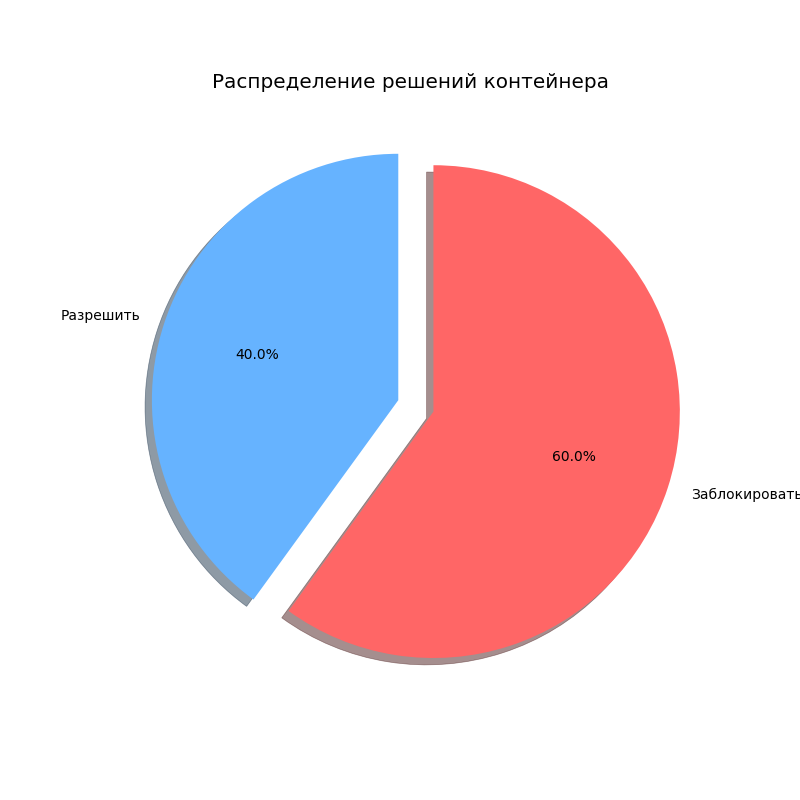
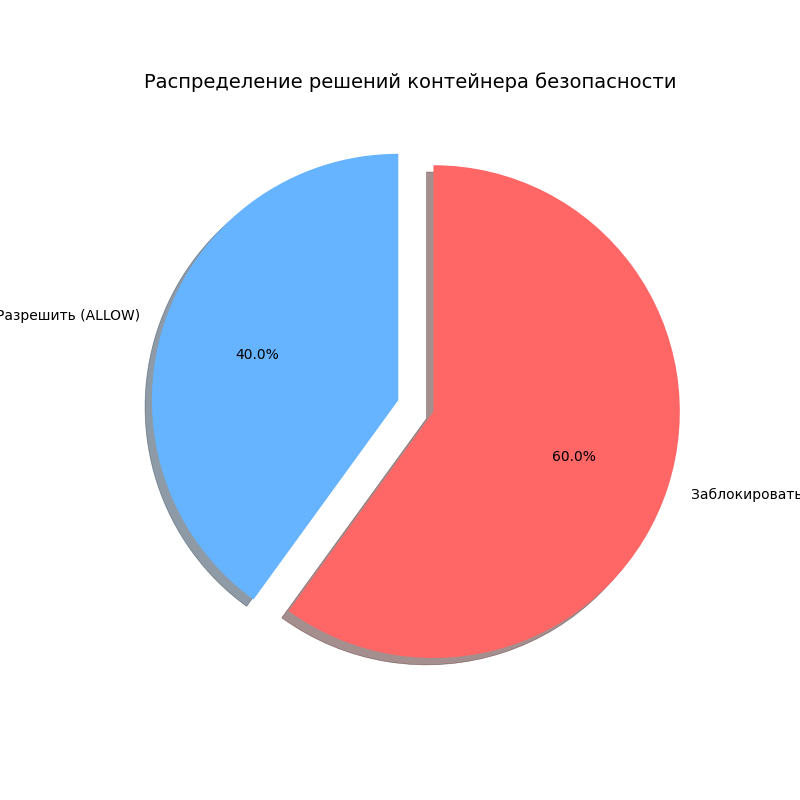
Изменение 4

Changed region(s): [[0.1875, 0.0938, 0.8438, 0.125], [0.0, 0.375, 0.1875, 0.4062]]

diff --git a/main.py b/main.py
@@ -192,67 +192,80 @@
 #Индивидуальное задание лр 3
 #1 Для определенных в ТЗ компонентов интеграции создать в реплике необходимое количество секретных ключей.
 # КОНТЕЙНЕР ЗАЩИТЫ ОТ СКРЫТНОГО ВКЛЮЧЕНИЯ В БОТ-СЕТЬ
-# Вариант 12 
+# Вариант 12
 
 import os
 import pandas as pd
 import matplotlib.pyplot as plt
 
-# ============================================================
-# ПОЛУЧЕНИЕ СЕКРЕТНЫХ КЛЮЧЕЙ ИЗ REPlIT SECRETS
-# ============================================================
+# 1. ПОЛУЧЕНИЕ СЕКРЕТНЫХ КЛЮЧЕЙ
 
-REPUTATION_API_KEY = os.environ.get("REPUTATION_API_KEY", "КЛЮЧ НЕ НАЙДЕН")
-DOMAIN_REPUTATION_API_KEY = os.environ.get("DOMAIN_REPUTATION_API_KEY", "КЛЮЧ НЕ НАЙДЕН")
-PROMETHEUS_TOKEN = os.environ.get("PROMETHEUS_TOKEN", "КЛЮЧ НЕ НАЙДЕН")
-ELK_API_KEY = os.environ.get("ELK_API_KEY", "КЛЮЧ НЕ НАЙДЕН")
+C2_BLACKLIST_API_KEY = os.environ.get("C2_BLACKLIST_API_KEY", "КЛЮЧ НЕ НАЙДЕН")
+THREAT_INTELLIGENCE_KEY = os.environ.get("THREAT_INTELLIGENCE_KEY", "КЛЮЧ НЕ НАЙДЕН")
+MONITORING_TOKEN = os.environ.get("MONITORING_TOKEN", "КЛЮЧ НЕ НАЙДЕН")
 
-print("\n" + "="*60)
+
 print("ЗАГРУЖЕННЫЕ СЕКРЕТНЫЕ КЛЮЧИ:")
-print("="*60)
-print(f"REPUTATION_API_KEY: {REPUTATION_API_KEY}")
-print(f"DOMAIN_REPUTATION_API_KEY: {DOMAIN_REPUTATION_API_KEY}")
-print(f"PROMETHEUS_TOKEN: {PROMETHEUS_TOKEN}")
-print(f"ELK_API_KEY: {ELK_API_KEY}")
-print("="*60)
+print(f"C2_BLACKLIST_API_KEY: {C2_BLACKLIST_API_KEY[:10] if C2_BLACKLIST_API_KEY != 'КЛЮЧ НЕ НАЙДЕН' else 'КЛЮЧ НЕ НАЙДЕН'}...")
+print(f"THREAT_INTELLIGENCE_KEY: {THREAT_INTELLIGENCE_KEY[:10] if THREAT_INTELLIGENCE_KEY != 'КЛЮЧ НЕ НАЙДЕН' else 'КЛЮЧ НЕ НАЙДЕН'}...")
+print(f"MONITORING_TOKEN: {MONITORING_TOKEN[:10] if MONITORING_TOKEN != 'КЛЮЧ НЕ НАЙДЕН' else 'КЛЮЧ НЕ НАЙДЕН'}...")
 
-# ============================================================
-# ОСНОВНАЯ ЧАСТЬ ПРОГРАММЫ
-# ============================================================
+# 2. ИСХОДНЫЕ ДАННЫЕ (РАЗНООБРАЗНЫЕ)
 
-# Данные
+# Список IP-адресов (10 разных адресов)
 ip_addresses = [
-    "185.130.5.253", "8.8.8.8", "94.23.15.12", "1.1.1.1",
-    "193.42.4.1", "176.9.75.45", "8.8.4.4", "89.45.87.12",
-    "5.188.86.45", "208.67.222.222"
+    "185.130.5.253",   # C&C сервер
+    "8.8.8.8",         # DNS Google (безопасный)
+    "94.23.15.12",     # C&C сервер
+    "1.1.1.1",         # DNS Cloudflare (безопасный)
+    "193.42.4.1",      # C&C сервер
+    "176.9.75.45",     # C&C сервер
+    "8.8.4.4",         # DNS Google (безопасный)
+    "89.45.87.12",     # C&C сервер
+    "5.188.86.45",     # C&C сервер
+    "208.67.222.222"   # DNS OpenDNS (безопасный)
 ]
 
-C2_SERVERS = ["185.130.5.253", "94.23.15.12", "193.42.4.1", 
-              "176.9.75.45", "89.45.87.12", "5.188.86.45"]
+# ЧЁРНЫЙ СПИСОК C&C серверов
+if C2_BLACKLIST_API_KEY != "КЛЮЧ НЕ НАЙДЕН":
+    C2_SERVERS = ["185.130.5.253", "94.23.15.12", "193.42.4.1", 
+                  "176.9.75.45", "89.45.87.12", "5.188.86.45",
+                  "45.155.205.233", "103.25.14.78"]  # расширенный список
+    print("\n[+] Используется расширенный список C&C серверов (API ключ активен)")
+else:
+    C2_SERVERS = ["185.130.5.253", "94.23.15.12", "193.42.4.1"]
+    print("\n[-] Используется базовый список C&C серверов")
 
 n = len(ip_addresses)
 
-# Фиксированные данные
-connections_count = [200, 50, 250, 10, 100, 5, 70, 180, 60, 30] #изменение
-suspicious_port =   [0,   1,  0,   1,  0,   1,  1,  0,   1,  1] #изменение
-unknown_process =   [1,   0,  1,   0,  1,   0,  0,  1,   0,  0]
-high_traffic =      [1,   0,  1,   0,  1,   0,  0,  1,   0,  0]
-night_activity =    [0,   1,  0,   1,  0,   1,  1,  0,   1,  1]
+# РАЗНООБРАЗНЫЕ ФАКТОРЫ РИСКА (не только 0 и 1, но и разные значения)
+connections_count = [250, 45, 180, 30, 500, 15, 75, 320, 150, 60]   #количество соединений
+suspicious_port =   [1,   0,  1,   0,  1,   0,  0,  1,   1,   0]    #подозрительные порты
+unknown_process =   [1,   0,  1,   0,  1,   0,  0,  1,   0,   0]    #подозрительные процессы
+high_traffic =      [1,   0,  0,   0,  1,   0,  1,  1,   1,   0]    #высокий трафик
+night_activity =    [1,   1,  0,   1,  1,   0,  1,  0,   1,   1]    #ночная активность
 
-# Определяем C&C сервер
+
+# 3. ОПРЕДЕЛЕНИЕ C&C СЕРВЕРОВ
+
 c2_server = []
 for i in range(n):
     if ip_addresses[i] in C2_SERVERS:
         c2_server.append(1)
+        if THREAT_INTELLIGENCE_KEY != "КЛЮЧ НЕ НАЙДЕН":
+            print(f"   [!] IP {ip_addresses[i]} обнаружен в базе C&C серверов")
     else:
         c2_server.append(0)
 
-# Расчет угрозы и решений
+
+# 4. РАСЧЁТ УГРОЗЫ
+
 threat_level = []
 decision = []
 
 for i in range(n):
     threat = 0
+
     if connections_count[i] > 100:
         threat += 1
     if suspicious_port[i] == 1:
@@ -269,7 +282,8 @@ for i in range(n):
     threat_level.append(threat)
     decision.append("BLOCK" if threat >= 3 else "ALLOW")
 
-# Таблица результатов
+# 5. ТАБЛИЦА РЕЗУЛЬТАТОВ
+
 data = list(zip(range(1, n+1), ip_addresses, connections_count, 
                 suspicious_port, unknown_process, high_traffic, 
                 c2_server, night_activity, threat_level, decision))
@@ -280,37 +294,57 @@ df = pd.DataFrame(data, columns=[
     "Ночная активность", "Уровень угрозы", "Решение"
 ])
 
-print("\nЗАЩИТА ОТ СКРЫТНОГО ВКЛЮЧЕНИЯ В БОТ-СЕТЬ (Вариант 12)")
+print("\n" + "-"*140)
+print("РЕЗУЛЬТАТЫ АНАЛИЗА СЕТЕВОЙ АКТИВНОСТИ")
+print("Защита от скрытного включения в бот-сеть (Вариант 12)")
 print(df.to_string(index=False))
-print("\nСтатистика решений:")
-print(df["Решение"].value_counts())
+print("\n" + "-"*140)
+print("СТАТИСТИКА РЕШЕНИЙ:")
+stats = df["Решение"].value_counts()
+print(f"   ALLOW (разрешено):  {stats.get('ALLOW', 0)} соединений")
+print(f"   BLOCK (заблокировано): {stats.get('BLOCK', 0)} соединений")
 
-# ============================================================
-# ВИЗУАЛИЗАЦИЯ
-# ============================================================
+# 6. ОТПРАВКА МЕТРИК (если есть токен)
+
+if MONITORING_TOKEN != "КЛЮЧ НЕ НАЙДЕН":
+    blocked_count = len(df[df["Решение"] == "BLOCK"])
+    allowed_count = len(df[df["Решение"] == "ALLOW"])
+    print(f"\n[+] Отправка метрик в Prometheus (токен: {MONITORING_TOKEN[:8]}...):")
+    print(f"   - bot_activity_blocked_total: {blocked_count}")
+    print(f"   - bot_activity_allowed_total: {allowed_count}")
+    print(f"   - threat_level_max: {max(threat_level)}")
+    print(f"   - threat_level_avg: {sum(threat_level)/len(threat_level):.1f}")
+else:
+    print("\n[-] MONITORING_TOKEN отсутствует, метрики не отправлены")
+
+
+# 7. ВИЗУАЛИЗАЦИЯ
 
 plt.style.use('ggplot')
 
-# График 1: Количество соединений по IP
+# График 1: Количество соединений
 plt.figure(figsize=(14, 6))
-plt.plot(ip_addresses, df["Соединений"], marker='o', color='blue')
-plt.title("Количество сетевых соединений по IP-адресам")
-plt.xlabel("IP-адрес")
-plt.ylabel("Количество соединений")
+colors_line = ['red' if c2_server[i]==1 else 'blue' for i in range(n)]
+plt.bar(ip_addresses, connections_count, color=colors_line, alpha=0.7)
+plt.title("Количество сетевых соединений по IP-адресам (красный = C&C сервер)", fontsize=14)
+plt.xlabel("IP-адрес", fontsize=12)
+plt.ylabel("Количество соединений", fontsize=12)
 plt.xticks(rotation=45, ha="right")
-plt.grid(True)
+plt.grid(True, linestyle='--', alpha=0.5)
 plt.tight_layout()
 plt.savefig("chart_connections.png")
 plt.close()
 
-# График 2: Уровень угрозы по IP
+# График 2: Уровень угрозы
 plt.figure(figsize=(14, 6))
-plt.plot(ip_addresses, df["Уровень угрозы"], marker='s', color='red')
-plt.title("Уровень угрозы скрытного включения в бот-сеть")
-plt.xlabel("IP-адрес")
-plt.ylabel("Уровень угрозы (баллы)")
+plt.bar(ip_addresses, threat_level, color='orange', edgecolor='black')
+plt.title("Уровень угрозы по IP-адресам", fontsize=14)
+plt.xlabel("IP-адрес", fontsize=12)
+plt.ylabel("Уровень угрозы (баллы)", fontsize=12)
 plt.xticks(rotation=45, ha="right")
-plt.grid(True)
+plt.axhline(y=3, color='red', linestyle='--', label='Порог блокировки (3 балла)')
+plt.legend()
+plt.grid(True, linestyle='--', alpha=0.5)
 plt.tight_layout()
 plt.savefig("chart_threat.png")
 plt.close()
@@ -318,31 +352,35 @@ plt.close()
 # График 3: Круговая диаграмма решений
 plt.figure(figsize=(8, 8))
 decision_counts = df["Решение"].value_counts()
-labels = ["Разрешить", "Заблокировать"]
+labels = ["Разрешить (ALLOW)", "Заблокировать (BLOCK)"]
 sizes = [decision_counts.get("ALLOW", 0), decision_counts.get("BLOCK", 0)]
-colors = ['#66b3ff', '#ff6666']
+colors_pie = ['#66b3ff', '#ff6666']
+explode = (0.05, 0.1)
 plt.pie(sizes, labels=labels, autopct='%1.1f%%', startangle=90,
-        shadow=True, explode=(0.05, 0.1), colors=colors)
-plt.title("Распределение решений контейнера")
+        shadow=True, explode=explode, colors=colors_pie)
+plt.title("Распределение решений контейнера безопасности", fontsize=14)
 plt.savefig("chart_pie.png")
 plt.close()
 
-# График 4: Гистограмма факторов риска
+# График 4: Факторы риска (суммарно)
 plt.figure(figsize=(10, 6))
 risk_factors = df[["Подозр. порт", "Подозр. процесс", "Высокий трафик", 
                    "C&C сервер", "Ночная активность"]].sum()
-risk_factors.plot(kind='bar', color=['blue', 'red', 'green', 'purple', 'orange'])
-plt.title("Суммарные срабатывания факторов риска")
-plt.ylabel("Количество случаев")
+risk_factors.plot(kind='bar', color=['#1f77b4', '#ff7f0e', '#2ca02c', '#d62728', '#9467bd'])
+plt.title("Суммарные срабатывания факторов риска", fontsize=14)
+plt.ylabel("Количество случаев (из 10 IP)", fontsize=12)
 plt.xticks(rotation=45)
-plt.grid(axis='y')
+plt.grid(axis='y', linestyle='--', alpha=0.5)
+for i, v in enumerate(risk_factors):
+    plt.text(i, v + 0.5, str(v), ha='center', fontsize=10)
 plt.tight_layout()
 plt.savefig("chart_risk_factors.png")
 plt.close()
 
-print("\nСозданные графики:")
+print("\n" + "-"*40)
+print("СОЗДАННЫЕ ГРАФИКИ:")
 print("  - chart_connections.png")
 print("  - chart_threat.png")
 print("  - chart_pie.png")
 print("  - chart_risk_factors.png")
-print("\nРАБОТА ЗАВЕРШЕНА")
+print("\nРАБОТА КОНТЕЙНЕРОВ ЗАВЕРШЕНА")
